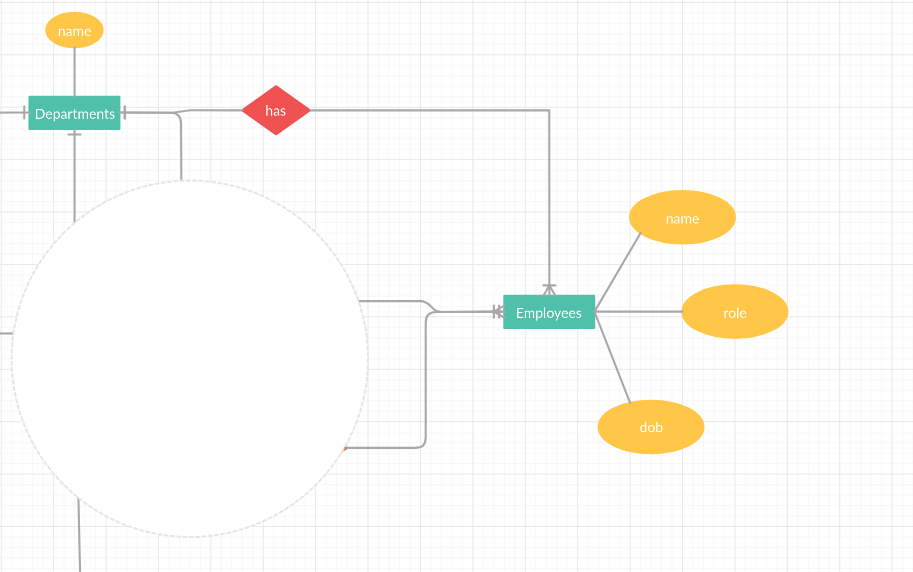
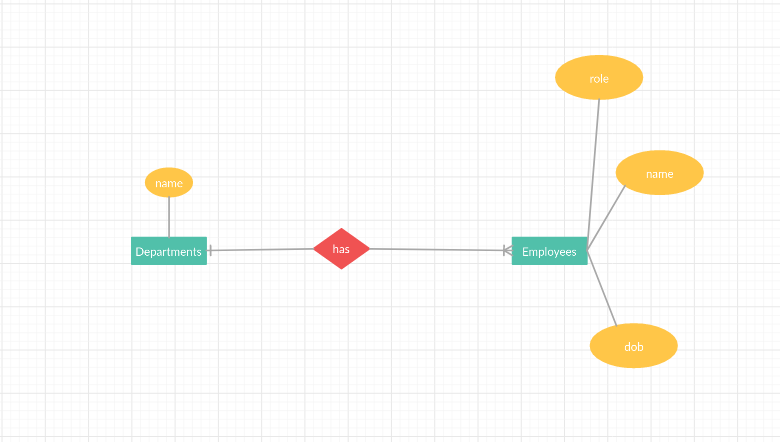
Added recruit -> cohort -> deparment relationship

diff --git a/content/topics/sql-schema-design/index.md b/content/topics/sql-schema-design/index.md
@@ -54,11 +54,16 @@ Each department has one or more employees, employees are part of one department 
 
 ![step 1 image](./img/department_and_employee.png)
 
+Let note that one department is managed by one manager who an employee him/herself hence the following diagram
+
+![step 1 image](./img/department_management.png)
+
 #### Recruits and departments
 
 Each department has one or more recruits, and recruits belong to a department at a time.
+This relationship can best be represented when linking both entities through the cohort table(seen below picture), this way we get to observe in details the relationship.
 
-![step 1 image](./img/recruit_and_department.png)
+![step 1 image](./img/department_and_recruit.png)
 
 
 #### Final view
@@ -76,8 +81,10 @@ A department is managed by one employee (Head of a department) at a time. This i
 
 ##### Cohorts
 
-| id | name | start_date | end_date |
-|----|------|------------|----------|
+The cohort table to represent the relationship between recruits and departments.
+
+| id | recruit_id | department_id | cohort_name |
+|----|------------|---------------|-------------|
 
 ##### Cohort leadership
 
@@ -86,7 +93,7 @@ This said to be a `one to many relationships`.
 from the cohort and Employees tables, we derive the following table.
 
 | id | `employee_id` | `cohort_id` |
-|----|-------------|-----------|
+|----|---------------|-------------|
 
 
 ##### Employees
